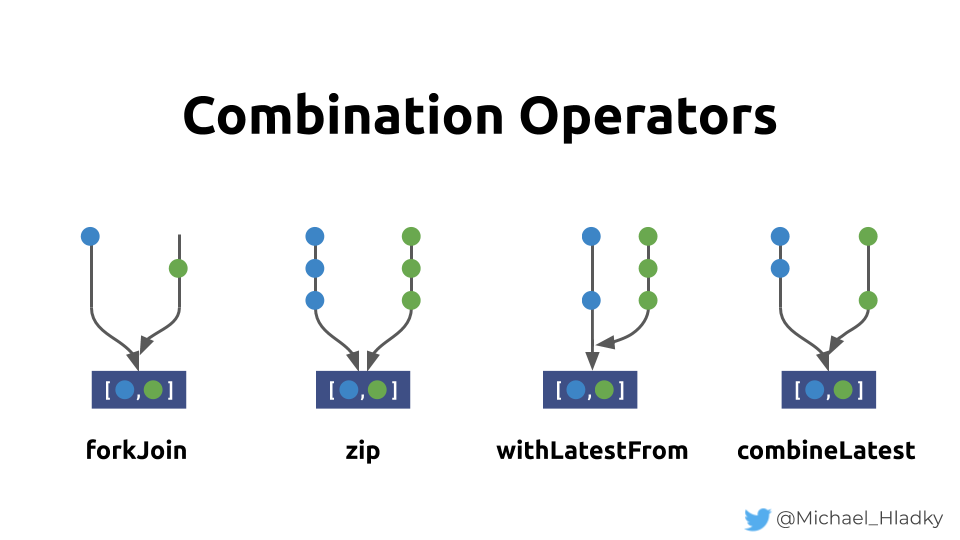
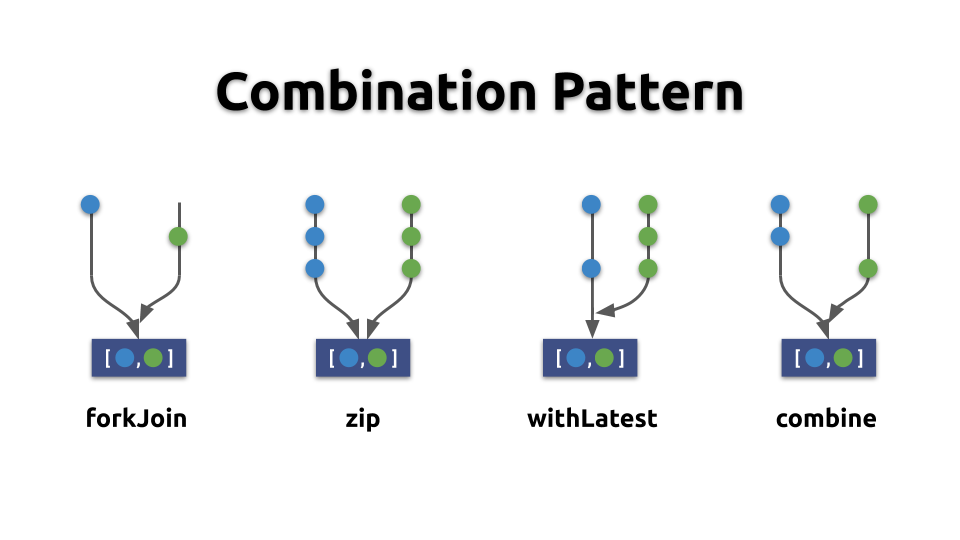
update images

diff --git a/README.md b/README.md
@@ -43,10 +43,10 @@ and points out some interesting details.
 With that in mind, we will start to work on our first patterns.
 
 Exercises we will master are:
-- Deriving state and combination operators
+- State derivation and update behaviour
   - Overview of combination the operators
   - HTTP fetching and with `forkJoin`
-  - Avoid over-fetching by introducing state into our Http service  
+  - Avoid over-fetching by introducing state into the Http service  
   - Continuously deriving state with `combineLatest` 
   - Reduce computations and understand data normalization
   - Opt-In Updates and `withLatestFrom`
